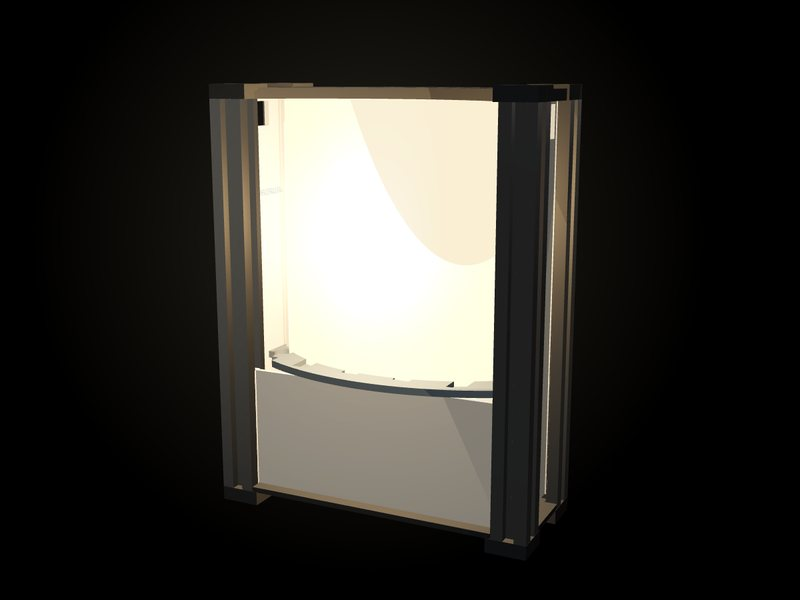
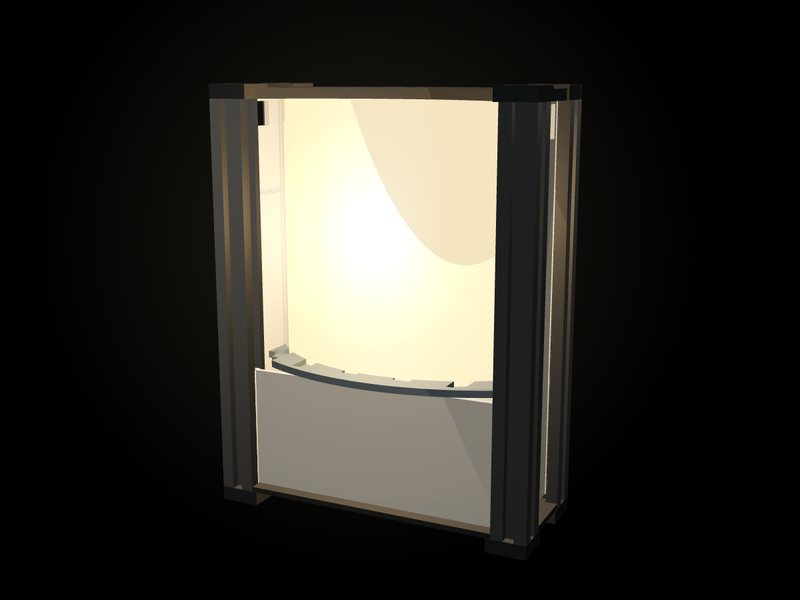
Drop the ignition flicker, make the six orbs independent, add the HUD subtitle
Ignition is now a single rise past full brightness and a settle, with no
stutters. Frame brightness 30.9 at the trough to 68.9 at the peak.

The orbs no longer chase one shared target with fixed offsets, which made
them read as a single trail. Each has its own anchor around the lamp, its
own drift frequencies with no common period, its own lag, and its own
pull toward the cursor from 0.28 to 1.00, so some barely react while
others follow closely. Scaled down from 210-500 to 118-288 units: at the
larger size they were fog rather than orbs. They are visible from the
start, not gated on 점등, and dim with the room before ignition so the
contrast survives.

Reverts my amendment to §2.5. The three-moving-elements rule stands as
written; the six orbs are recorded as an explicit exception the user
chose, dated, rather than the rule being redefined to permit them.

Adds 디자인프로토타입핑 12주차 과제 under the FISH LAMP V10 mark.

Card images are captured with ?noorbs=1 so the orbs do not sit over the
parts, and the lamp's lit level was lowered so the 발광부 keeps its shape
instead of blowing out to white.

diff --git a/public/lamp/index.html b/public/lamp/index.html
@@ -79,6 +79,10 @@
   .fl-title b { color: var(--fg-primary); font-weight: var(--weight-medium); }
 
   /* data/md — 실측 치수 */
+  .fl-sub { font-family: var(--font-text); font-size: var(--size-md);
+            font-weight: var(--weight-medium); letter-spacing: var(--tracking-heading);
+            line-height: var(--leading-snug); color: var(--fg-primary); margin-top: var(--space-2); }
+
   .fl-dims { font-family: var(--font-mono); font-size: var(--size-2xs);
              font-weight: var(--weight-regular); line-height: var(--leading-snug);
              color: var(--fg-muted); text-align: right; }
@@ -130,6 +134,7 @@
   @media (max-width: 768px) { /* md */
     .fl-bottom { flex-direction: column; align-items: flex-start; }
     .fl-dims { display: none; }
+    .fl-sub { font-size: var(--size-sm); }
   }
 
   /* §2.5 — reduced motion */
@@ -264,7 +269,10 @@
   <div id="fl-stage">
     <canvas id="fl-canvas"></canvas>
     <div class="fl-hud fl-top">
-      <div class="fl-title"><b>Fish Lamp</b> v10</div>
+      <div>
+        <div class="fl-title"><b>Fish Lamp</b> v10</div>
+        <div class="fl-sub">디자인프로토타입핑 12주차 과제</div>
+      </div>
       <div class="fl-dims" id="fl-dims">188.5 W × 90.8 D × 242.0 H mm</div>
     </div>
     <div class="fl-hint" id="fl-hint">scroll ↓</div>
@@ -516,28 +524,38 @@ const halo = (() => {
   scene.add(s); return s;
 })();
 
-/* 커서를 따라오는 배경 오브.
-   점등이 끝난 뒤에만 나타나고, 램프 빛과 같은 색, 같은 흔들림을 씁니다.
-   깊이는 램프보다 뒤라서 본체에 가려집니다. */
+/* 램프 주위를 떠다니는 빛 덩어리.
+   처음부터 보이고, 저마다 다른 주기로 자유롭게 흘러다닙니다.
+   커서가 움직이면 서로 다른 지연으로 따라오므로 하나의 궤적처럼 보입니다.
+   램프보다 뒤에 있는 것은 본체에 가려집니다. */
 const ORBS = (() => {
   const list = [];
   const N = 6;
   for (let i = 0; i < N; i++) {
     const sp = glowSprite();
-    sp.scale.setScalar(150 + i * 46);
-    sp.position.set(0, 120, -700);
+    sp.scale.setScalar(118 + i * 34);
     sp.renderOrder = -1;
     scene.add(sp);
+    // 여섯 개가 각자 다른 자리, 다른 속도, 다른 커서 반응을 가집니다.
+    // 같은 목표로 몰려가면 하나의 덩어리로 보이므로 값을 일부러 흩어 놓았습니다.
+    const PULL = [1.00, 0.72, 0.46, 0.88, 0.28, 0.60];   // 커서에 끌리는 정도
+    const LAG  = [3.10, 1.45, 0.85, 2.20, 0.55, 1.10];   // 따라붙는 속도
     list.push({
       sp,
-      lag: 2.6 - i * 0.33,                       // 뒤쪽 오브일수록 더 늦게 따라옵니다
-      off: [(i % 2 ? 1 : -1) * (40 + i * 46), ((i % 3) - 1) * 62, -i * 55],
-      pos: new THREE.Vector3(0, 120, -700),
-      amp: 0.16 - i * 0.017,
+      lag: LAG[i],
+      pull: PULL[i],
+      off: [(i % 2 ? 1 : -1) * (150 + i * 74), ((i % 3) - 1) * 150 + 40, (i % 2 ? 1 : -1) * (120 + i * 96)],
+      pos: new THREE.Vector3((i - 2.5) * 120, 140, -200),
+      amp: 0.62 - i * 0.052,
+      // 자유 유영: 축마다 다른 주기, 위상, 반경 — 공약수가 없어 궤적이 반복되지 않습니다
+      sw: [0.131 + i * 0.047, 0.097 + i * 0.039, 0.083 + i * 0.053],
+      ph: [i * 2.39, i * 1.77 + 0.9, i * 3.11 + 2.1],
+      rad: [150 + i * 44, 112 + i * 37, 130 + i * 41],
     });
   }
   return list;
 })();
+const orbHome = new THREE.Vector3();
 
 let ptrNDC = null;
 addEventListener('pointermove', (e) => {
@@ -573,22 +591,15 @@ function camAngles(p) {
   const l = CAM[CAM.length - 1]; return [l[1], l[2]];
 }
 
-/* 점등은 서서히 밝아지지 않습니다. 예열하듯 두세 번 깜빡인 뒤 한 번 확 올라왔다가
-   제 밝기로 가라앉습니다. 시간이 아니라 스크롤 위치에만 의존하므로 되감아도 같습니다. */
+/* 점등은 서서히 밝아지지 않습니다. 어둠에서 한 번에 확 올라왔다가 제 밝기로
+   가라앉습니다. 시간이 아니라 스크롤 위치에만 의존하므로 되감아도 같습니다. */
 const IGNITE_A = 0.84, IGNITE_B = 0.94;
 function ignition(p) {
   const q = clamp((p - IGNITE_A) / (IGNITE_B - IGNITE_A));
   if (q <= 0) return 0;
-  let v = 0;
-  for (const [a, b, amp] of [[0.02, 0.08, 0.20], [0.13, 0.19, 0.48], [0.25, 0.31, 0.26]]) {
-    if (q >= a && q < b) v = Math.max(v, amp * Math.sin(Math.PI * (q - a) / (b - a)));
-  }
-  if (q > 0.34) {
-    const rise = smooth(clamp((q - 0.34) / 0.20));
-    const settle = smooth(clamp((q - 0.54) / 0.46));
-    v = Math.max(v, rise * (1 + 0.70 * (1 - settle)));
-  }
-  return v;
+  const rise = smooth(clamp(q / 0.30));              // 어둠에서 한 번에 올라오고
+  const settle = smooth(clamp((q - 0.30) / 0.70));   // 넘긴 만큼 제 밝기로 가라앉습니다
+  return rise * (1 + 0.75 * (1 - settle));
 }
 
 /* 조립은 스크롤 앞 66%, 점등과 그 여운은 뒤 34%에 배분합니다. */
@@ -631,9 +642,9 @@ function apply(p, time) {
   // 점등
   const on = ignition(p);
   const flick = reduce ? 1 : 1 + 0.025 * Math.sin(time * 2.1) + 0.015 * Math.sin(time * 5.3);
-  MATS.light.emissiveIntensity = on * 2.8 * flick;
-  lampLight.intensity = on * 3.6 * flick;
-  halo.material.opacity = Math.min(0.75, on * 0.42 * flick);
+  MATS.light.emissiveIntensity = on * 1.7 * flick;
+  lampLight.intensity = on * 2.3 * flick;
+  halo.material.opacity = Math.min(0.58, on * 0.34 * flick);
   // 서지 순간에는 화면 전체가 한 번 들립니다
   renderer.toneMappingExposure = 1.05 + 0.34 * Math.max(0, on - 1);
 
@@ -651,21 +662,34 @@ function apply(p, time) {
   camera.position.set(camC.x + camD * Math.sin(a) * Math.cos(e), camC.y + camD * Math.sin(e), camC.z + camD * Math.cos(a) * Math.cos(e));
   camera.lookAt(camC);
 
-  // 커서를 따라오는 배경 오브: 점등이 자리잡은 뒤부터
-  const orbOn = smooth(clamp((p - 0.93) / 0.05));
-  if (orbOn > 0.001 && ptrNDC) {
+  // 램프 주위를 떠다니는 빛 덩어리. 처음부터 보이고, 커서가 있으면 그쪽으로 모입니다.
+  /* 밝기는 램프를 따릅니다. 점등 직전 어두워질 때 함께 잦아들었다가,
+     램프가 살아날 때 같이 터집니다. 그래야 점등의 대비가 죽지 않습니다. */
+  const orbFade = seg(p, 0.01, 0.10);
+  const orbGain = 0.62 * (1 - 0.85 * dusk) + 0.95 * on;
+  // 기본 자리는 램프 둘레입니다. 커서가 있으면 오브마다 제 몫만큼 그쪽으로 끌립니다.
+  const hasPtr = !!ptrNDC;
+  if (hasPtr) {
     orbRay.set(ptrNDC.x, ptrNDC.y, 0.5).unproject(camera).sub(camera.position).normalize();
-    orbWant.copy(camera.position).addScaledVector(orbRay, camD * 1.35);
-    for (const o of ORBS) {
-      const k = 1 - Math.exp(-o.lag * frameDt);
-      o.pos.x += (orbWant.x + o.off[0] - o.pos.x) * k;
-      o.pos.y += (orbWant.y + o.off[1] - o.pos.y) * k;
-      o.pos.z += (orbWant.z + o.off[2] - o.pos.z) * k;
+    orbWant.copy(camera.position).addScaledVector(orbRay, camD * 1.25);
+  }
+  for (const o of ORBS) {
+    // 각자의 정박 지점
+    orbHome.set(camC.x + o.off[0], camC.y + o.off[1], camC.z + o.off[2]);
+    if (hasPtr) orbHome.lerp(orbWant, o.pull);
+    const k = 1 - Math.exp(-o.lag * frameDt);
+    o.pos.x += (orbHome.x - o.pos.x) * k;
+    o.pos.y += (orbHome.y - o.pos.y) * k;
+    o.pos.z += (orbHome.z - o.pos.z) * k;
+    if (reduce) {
       o.sp.position.copy(o.pos);
-      o.sp.material.opacity = orbOn * o.amp * flick;
+    } else {
+      o.sp.position.set(
+        o.pos.x + Math.sin(time * o.sw[0] + o.ph[0]) * o.rad[0],
+        o.pos.y + Math.sin(time * o.sw[1] + o.ph[1]) * o.rad[1],
+        o.pos.z + Math.cos(time * o.sw[2] + o.ph[2]) * o.rad[2]);
     }
-  } else {
-    for (const o of ORBS) o.sp.material.opacity = 0;
+    o.sp.material.opacity = Math.min(1, orbFade * o.amp * orbGain * flick);
   }
 
   // HUD
@@ -711,6 +735,7 @@ function frame(now) {
 
 // 테스트 훅: ?p=0.6 으로 진행도 고정 / window.__fl 로 조회
 const q = new URLSearchParams(location.search);
+if (q.has('noorbs')) for (const o of ORBS) o.sp.visible = false;
 window.__fl = {
   setProgress(v) { target = cur = clamp(v); apply(cur, 0); renderer.render(scene, camera); },
   info() { return { parts: meshes.length, triangles: triTotal }; },

diff --git a/design-system/DESIGN_SYSTEM.md b/design-system/DESIGN_SYSTEM.md
@@ -160,16 +160,20 @@ landonorris.com의 음수 자간 처리를 그대로 가져온 규칙입니다.
 
 **규칙**
 - 색과 투명도는 애니메이션합니다. 레이아웃 속성(width, top)은 하지 않습니다.
-- 한 화면에서 **독립적으로** 움직이는 UI 요소는 **3개 이하**.
-  3D 씬의 한 효과를 이루는 여러 스프라이트는 하나로 셉니다. 커서를 따라오는
-  배경 오브 6개가 그런 경우이고, 서로 다른 지연으로 같은 목표를 따라가므로
-  사용자에게는 궤적 하나로 보입니다.
+- 한 화면에서 동시에 움직이는 UI 요소는 **3개 이하**.
+- **예외: 3D 씬의 빛 덩어리 6개.** 각자 다른 자리, 다른 속도, 다른 커서 반응으로
+  독립적으로 떠다닙니다. 위 3개 제한을 넘지만 제품의 핵심 표현이므로 예외로 둡니다.
+  설계자 결정, 2026-11-18 `(confirmed)`.
 - `prefers-reduced-motion`에서는 transform 애니메이션을 모두 제거하고 opacity만 남깁니다.
 - 스크롤 씬은 스크롤 위치에 **직접 연동**합니다. 스크롤과 무관한 자동 재생은 쓰지 않습니다.
-- 점등은 밝기를 선형으로 올리지 않습니다. 직전에 주변광을 떨어뜨리고, 두 번 깜빡인 뒤
-  한 번 과하게 올라왔다가 제 밝기로 가라앉습니다. 스크롤 위치에만 의존하므로
+- 점등은 밝기를 선형으로 올리지 않습니다. 직전에 주변광을 떨어뜨려 어둠을 만들고,
+  한 번에 제 밝기를 넘겨 올라왔다가 가라앉습니다. 스크롤 위치에만 의존하므로
   되감으면 그대로 되돌아갑니다.
-- 커서 추종은 점등이 끝난 뒤에만 작동합니다. 그 전에는 커서에 반응하지 않습니다.
+- 배경의 빛 덩어리 여섯 개는 처음부터 떠다닙니다. 각자 다른 자리, 다른 주기, 다른
+  커서 반응을 가지므로 한 덩어리로 뭉치지 않습니다. 점등 직전 어두워질 때 함께
+  잦아들었다가 램프와 같이 살아납니다. 밝기를 램프와 묶어 두어야 점등의 대비가
+  죽지 않습니다.
+- 제품 사진을 찍을 때는 `?noorbs=1` 로 빛 덩어리를 끕니다. 부품 형태를 가리기 때문입니다.
 
 ---
 
@@ -338,7 +342,7 @@ landonorris.com의 음수 자간 처리를 그대로 가져온 규칙입니다.
 | 미정의 토큰 참조 | 0개 | 0개 | 통과 |
 | 브레이크포인트 | 480 / 768 / 1024 / 1440 만 | 동일 | 통과 |
 | 터치 대상 | 44 × 44px 이상 | md 이하에서 44px | 통과 |
-| 점등 전후 밝기 차 | 눈에 보일 것 | 평균 28.8 → 62.7 | 통과 |
+| 점등 전후 밝기 차 | 눈에 보일 것 | 평균 30.9 → 68.9 | 통과 |
 | 본문 명암비 | 4.5:1 이상 | 5.3:1 이상 | 통과 |
 
 `design-system/look.js` 가 스크롤 5개 지점을 고정 조건에서 렌더링하고,
